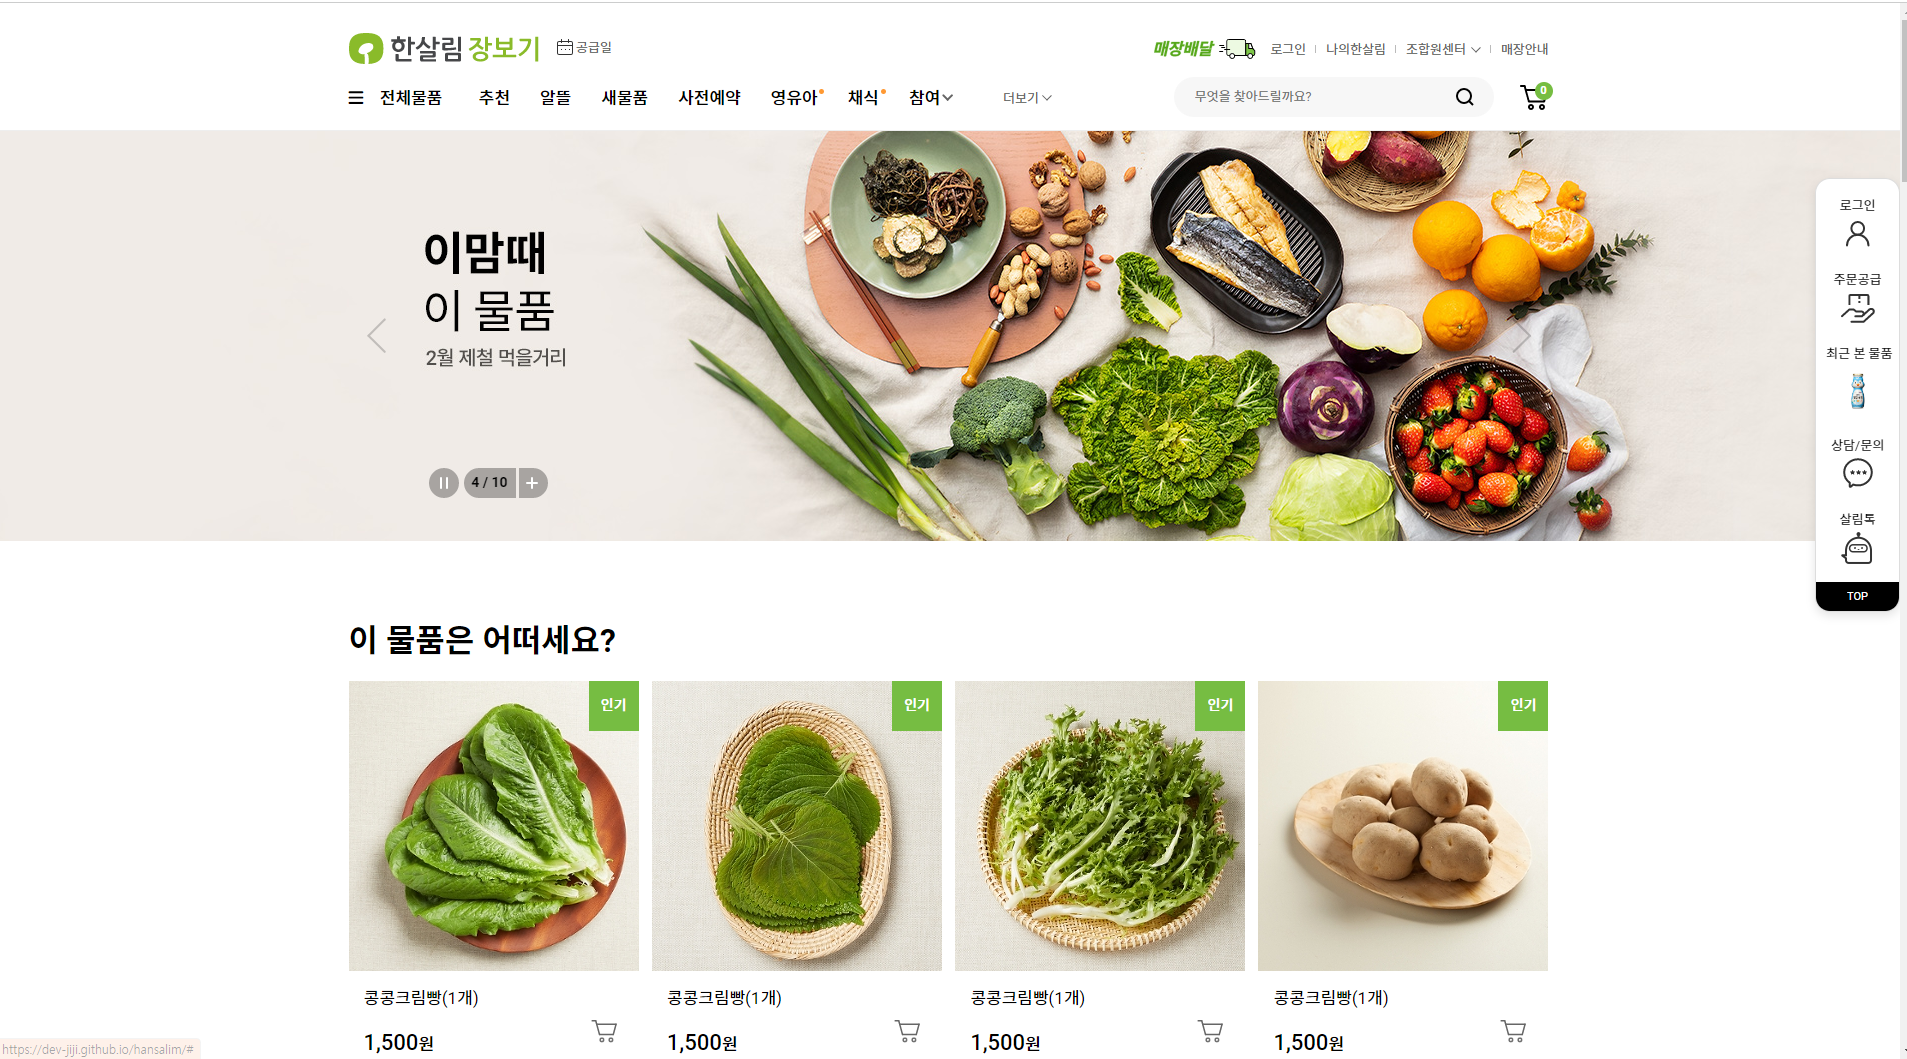
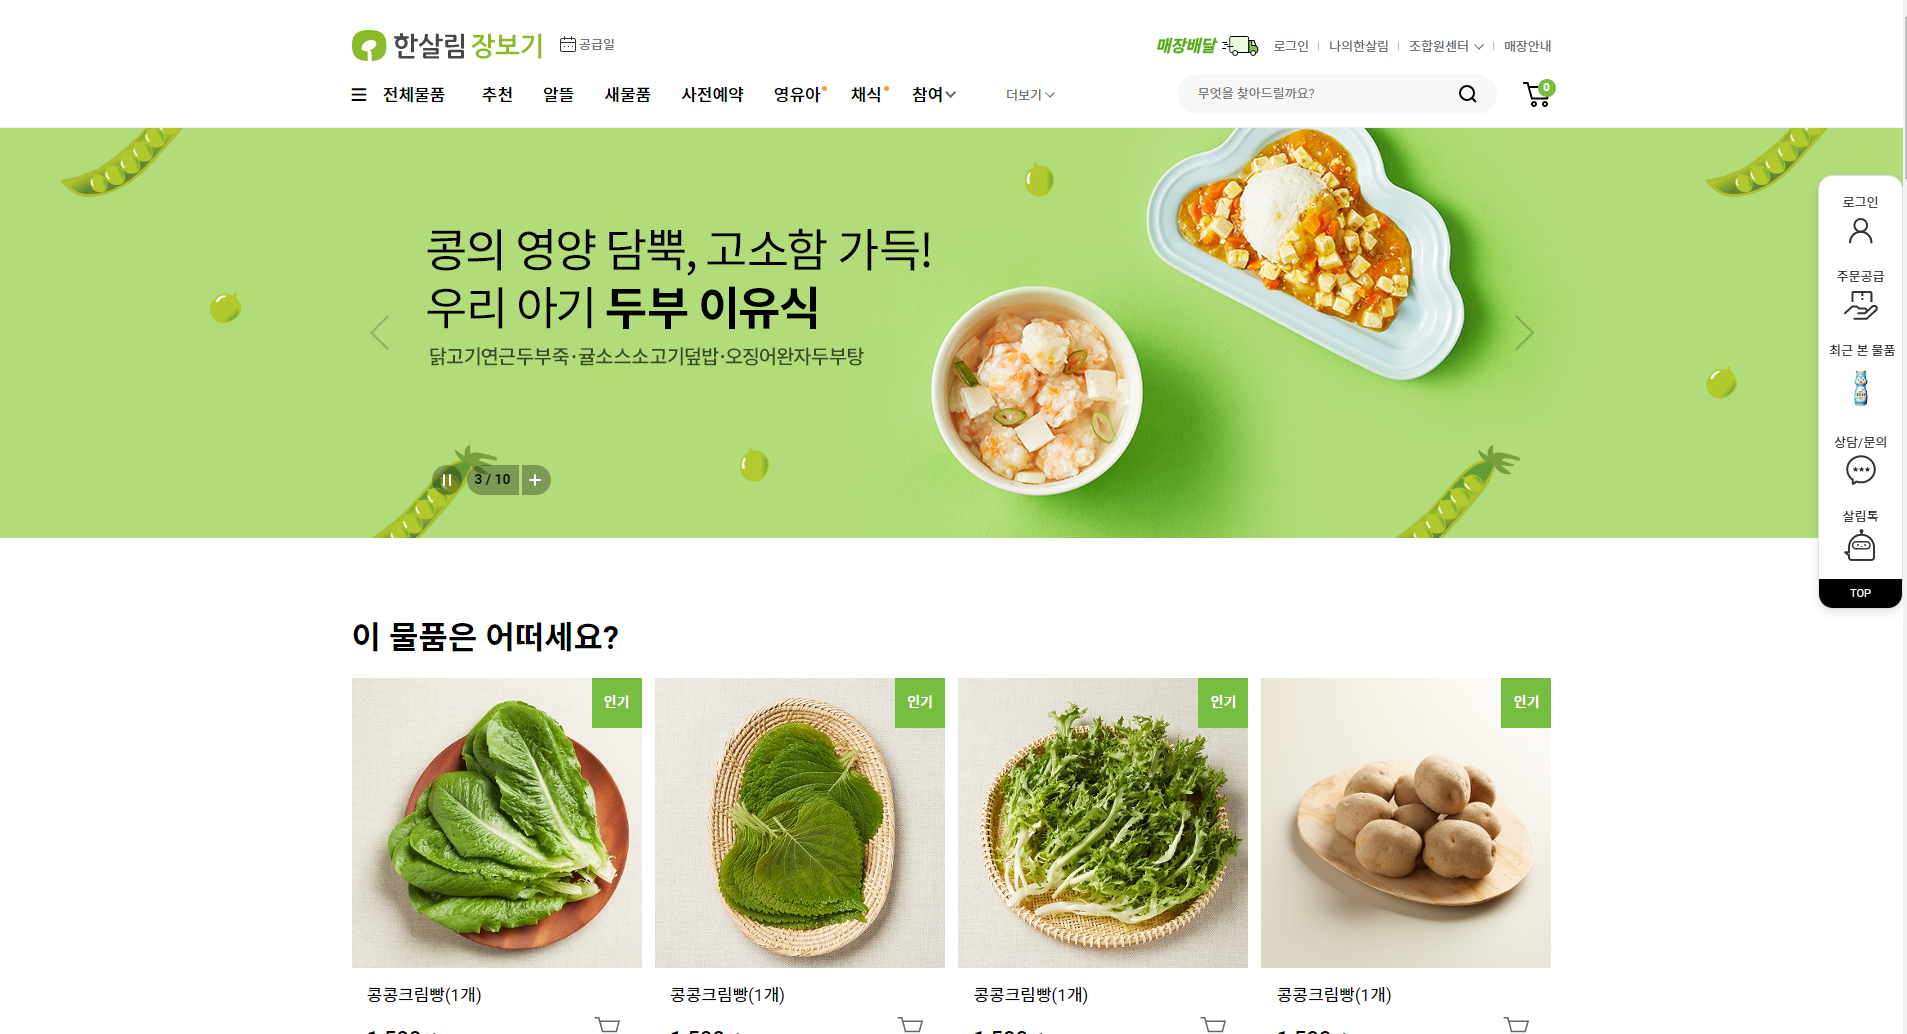
이미지 수정

diff --git a/src/pages/Portfolio.js b/src/pages/Portfolio.js
@@ -274,7 +274,7 @@ const Portfolio = () => {
                                     alt="portfolio"
                                 >
                                     <img
-                                        src={`${path}/images/hansalim2.png`}
+                                        src={`${path}/images/hansalim.png`}
                                         alt="portfolio"
                                     />
                                 </a>
